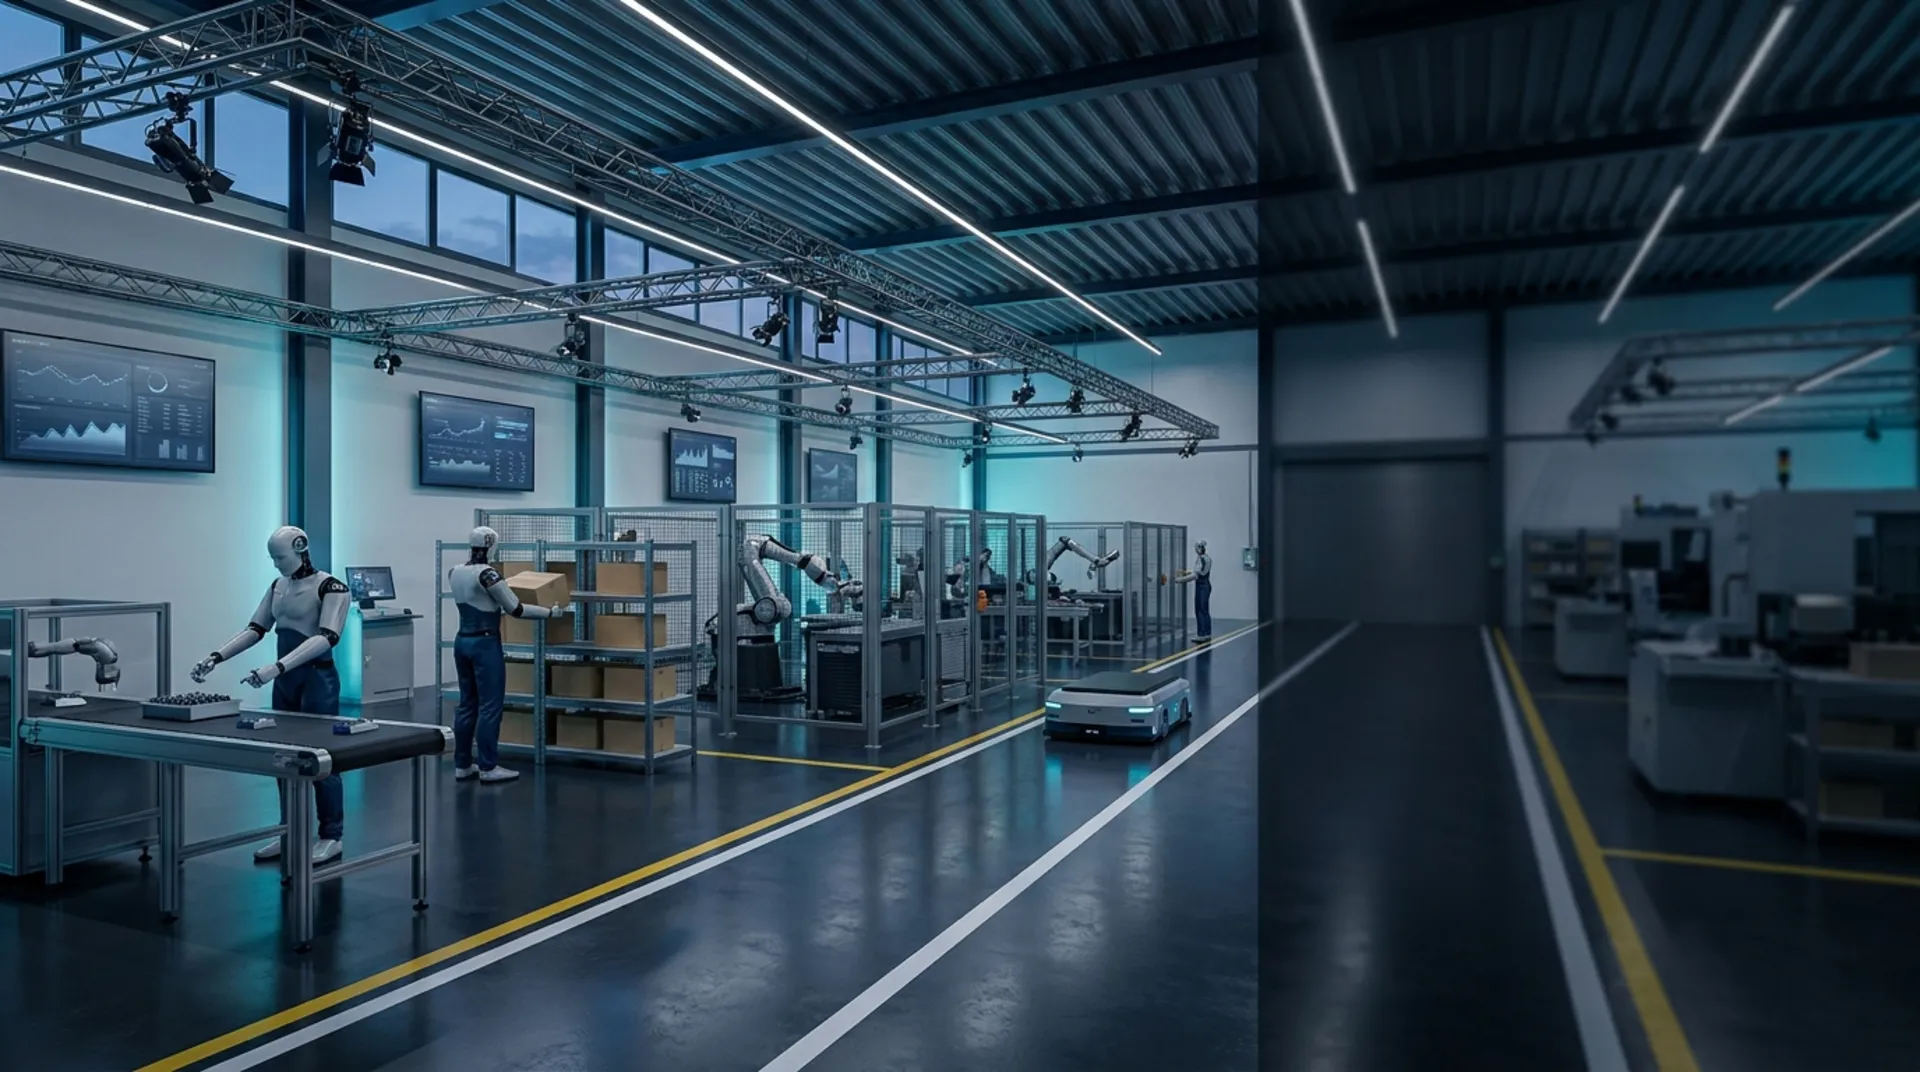
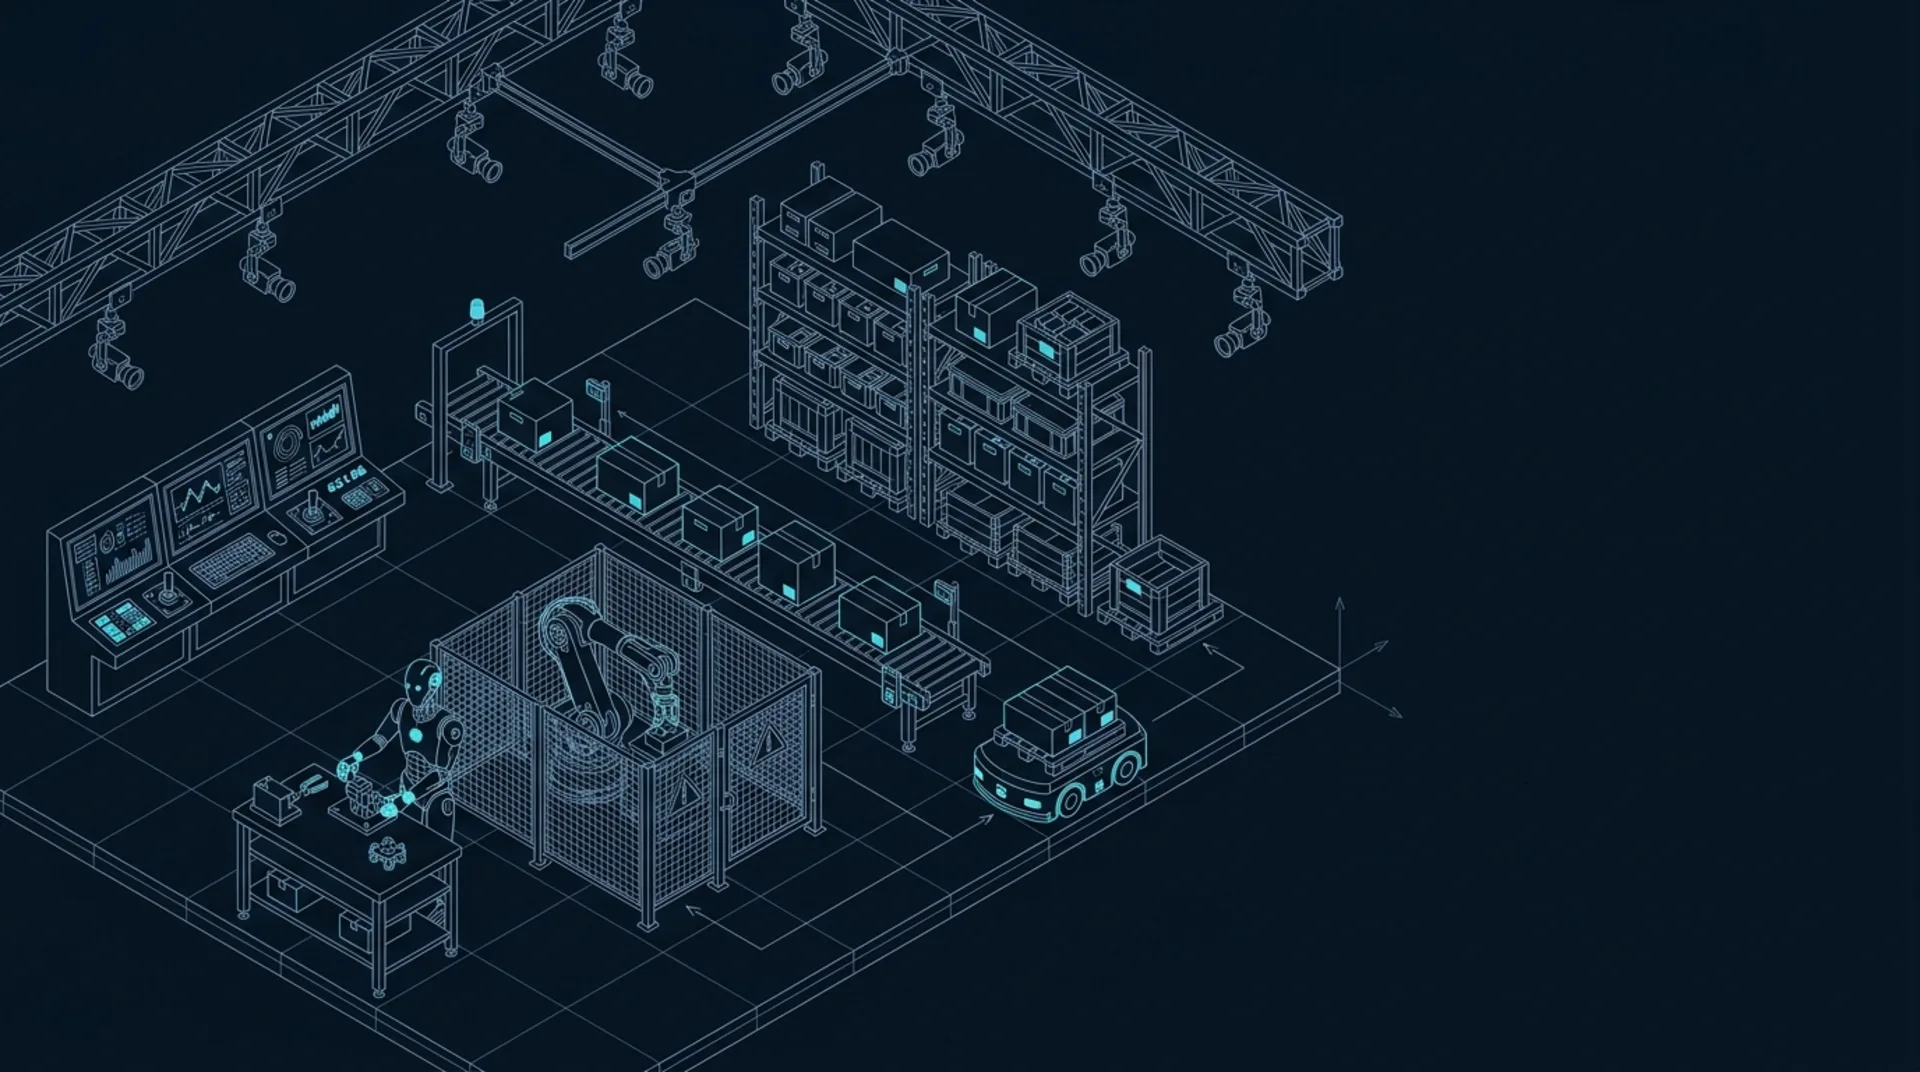
feat(ui): 登录页换用等轴线稿训练场插画

diff --git a/src/skins/cyber/cyber.css b/src/skins/cyber/cyber.css
@@ -45,13 +45,14 @@
 @keyframes cy-blink { 50% { opacity: .35; } }
 
 /* ================= 登录页 ================= */
-.cy-login { display: grid; grid-template-columns: minmax(0, 1fr) 480px; height: 100vh; min-height: 600px; overflow: hidden; }
+.cy-login { --bg: #071522; display: grid; grid-template-columns: minmax(0, 1fr) 480px; height: 100vh; min-height: 600px; overflow: hidden; }
 .cy-login-bg { position: absolute; inset: 0; z-index: 0;
   background:
-    linear-gradient(90deg, rgba(5,13,24,.25) 0%, rgba(5,13,24,.1) 30%, rgba(5,13,24,.85) 64%, var(--bg) 88%),
-    linear-gradient(0deg, rgba(5,13,24,.92) 0%, rgba(5,13,24,0) 38%),
-    var(--hero) 0% 50% / cover no-repeat;
-  animation: cy-zoom 30s ease-in-out infinite alternate; }
+    linear-gradient(90deg, rgba(7,21,34,0) 52%, rgba(7,21,34,.75) 68%, #071522 84%),
+    linear-gradient(0deg, #071522 0%, rgba(7,21,34,0) 22%),
+    var(--hero) left -40px top 0 / auto 92% no-repeat,
+    #071522;
+  animation: cy-zoom 30s ease-in-out infinite alternate; transform-origin: 30% 40%; }
 @keyframes cy-zoom { to { transform: scale(1.035); } }
 
 .cy-stage { position: relative; z-index: 2; display: flex; flex-direction: column; justify-content: flex-end; padding: 48px 64px 56px; min-width: 0; }
@@ -101,7 +102,7 @@
 @media (max-width: 1100px) { .cy-login { grid-template-columns: minmax(0, 1fr) 440px; } .cy-title h1 { font-size: 28px; letter-spacing: 4px; } .cy-stage { padding: 40px; } }
 @media (max-width: 900px) {
   .cy-login { grid-template-columns: 1fr; grid-template-rows: auto 1fr; height: auto; min-height: 100vh; overflow: visible; }
-  .cy-login-bg { background: linear-gradient(0deg, var(--bg) 40%, rgba(5,13,24,.35)), var(--hero) 30% 0 / auto 56vh no-repeat; }
+  .cy-login-bg { background: linear-gradient(0deg, #071522 52%, rgba(7,21,34,.6) 66%, rgba(7,21,34,0) 88%), var(--hero) 0 0 / auto 52vh no-repeat, #071522; }
   .cy-stage { padding: 30vh 24px 0; }
   .cy-title h1 { font-size: 24px; letter-spacing: 3px; } .cy-title svg { width: 42px; height: 42px; }
   .cy-title p { font-size: 10px; letter-spacing: 1.5px; }
